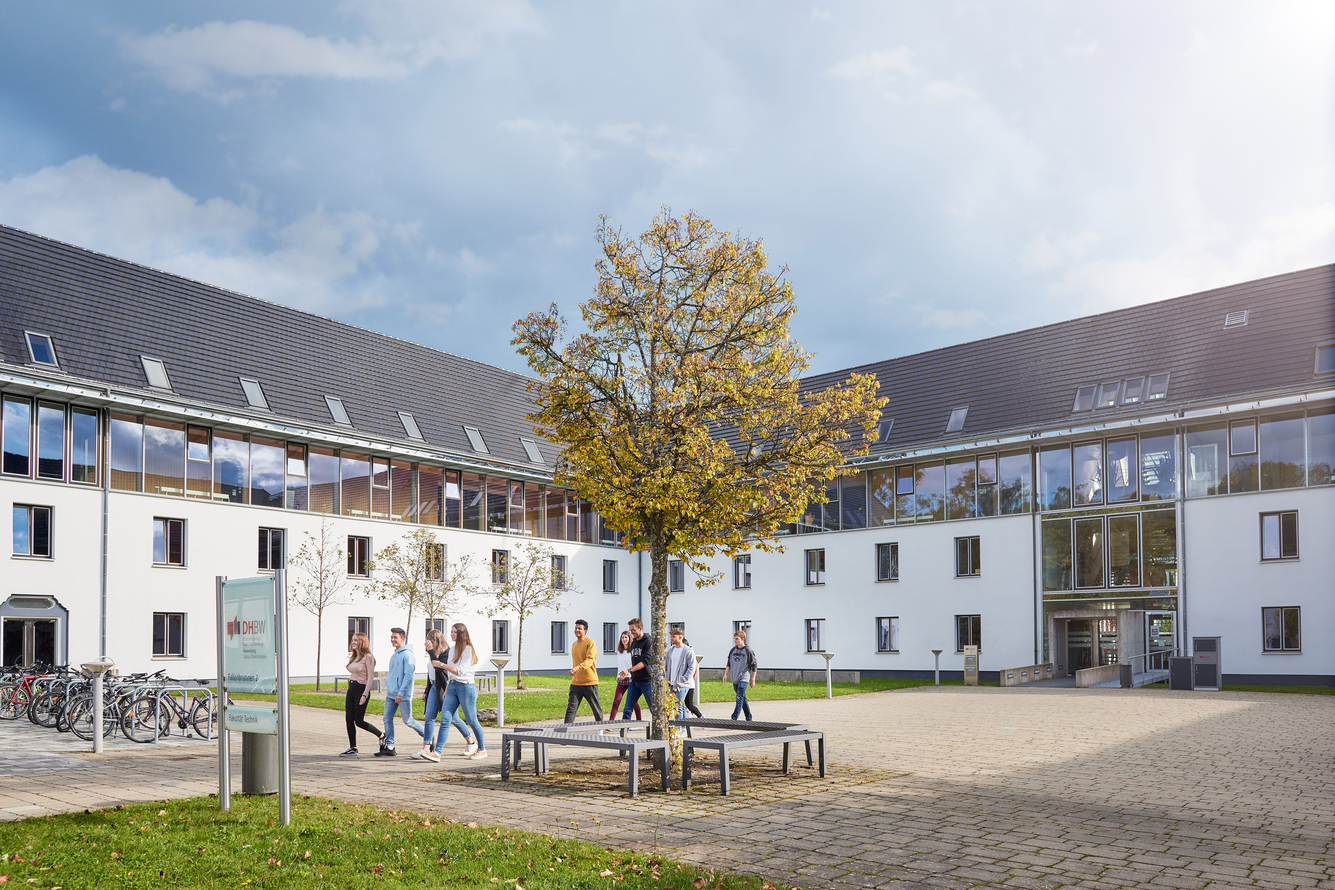
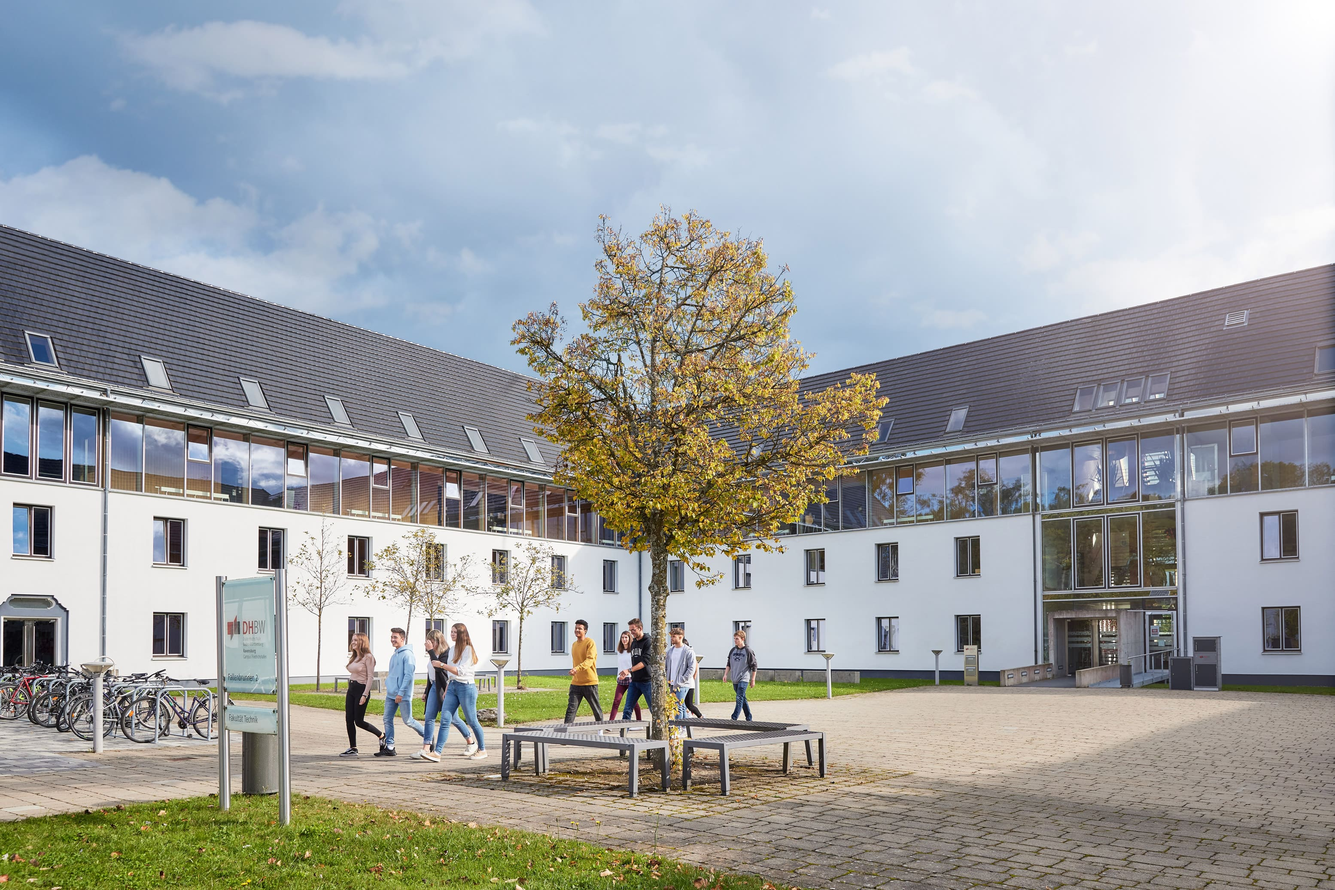
bilder komprimiert

diff --git a/public/index.html b/public/index.html
@@ -11,6 +11,7 @@
     <title>Homepage</title>
   </head>
   <body>
+    <!-- Navigationsbar -->
     <nav class="navbar">
       <div class="logo">
         <img src="pictures/logo_no_slogan.png" alt="" />
@@ -78,6 +79,90 @@
     <script src="js/swiper-bundle.min.js"></script>
     <script src="js/initswiper.js"></script>
     
+<!-- Versprechen-->
+    <div class="header-flex">
+      <h2 class="section-header">Why should you use our Website?</h2>
+      <h3 class="section-sub-header">We promise</h3>
+    </div>
+
+    <div class="flex-container-oben">
+      <div class="flex-item">
+        <div class="flex-content">
+          <img
+            loading="lazy"
+            src="pictures/productivity.jpg"
+            alt="productivity"
+            class="pictures"
+          />
+          <div class="flex-text">
+            <h4>Productivity:</h4>
+            <p>
+              Enhance your productivity with our intuitive task management
+              system. Stay organized, prioritize tasks, and achieve your goals
+              efficiently. Our platform provides features to streamline your
+              workflow, helping you tackle both personal and professional tasks
+              with ease.
+            </p>
+          </div>
+        </div>
+      </div>
+      <div class="flex-item">
+        <div class="flex-content">
+          <img
+            loading="lazy"
+            src="pictures/Integrateability.jpg"
+            alt="Integreatability"
+            class="pictures"
+          />
+          <div class="flex-text">
+            <h4>Integrability into Daily Life:</h4>
+            <p>
+              Seamlessly integrate our platform into your daily life. With a
+              user-friendly interface and mobile accessibility, you can manage
+              your tasks on the go. Whether you're at home, work, or on the
+              move, our platform adapts to your lifestyle, ensuring you stay on
+              top of your to-do list effortlessly.
+            </p>
+          </div>
+        </div>
+      </div>
+    </div>
+    <div class="flex-container-unten">
+      <div class="flex-item">
+        <div class="flex-content">
+          <img loading="lazy" src="pictures/family.jpg" alt="family" class="pictures" />
+          <div class="flex-text">
+            <h4>Collaborative Planning with Friends and Family:</h4>
+            <p>
+              Experience the power of collaborative planning by sharing your
+              to-do lists with friends and family. Coordinate events, manage
+              household chores, and plan activities together. Our platform
+              fosters teamwork, making it simple for everyone to contribute and
+              stay informed about shared responsibilities.
+            </p>
+          </div>
+        </div>
+      </div>
+      <div class="flex-item">
+        <div class="flex-content">
+          <img loading="lazy" src="pictures/easytouse.jpg" alt="easytouse" class="pictures" />
+          <div class="flex-text">
+            <h4>Easy to Use:</h4>
+            <p>
+              Simplicity is at the core of our platform. Enjoy a hassle-free
+              experience with an easy-to-use interface. Quickly create, edit,
+              and mark tasks as completed. Whether you're tech-savvy or new to
+              task management tools, our platform ensures a user-friendly
+              environment for all. Get started with ease and make task
+              management a breeze.
+            </p>
+          </div>
+        </div>
+      </div>
+    </div>
+
+
+    <!-- Textblock-->
     <div class="container">
       <div class="content">
         <h1>
@@ -172,93 +257,9 @@
         </p>
       </aside>
     </div>
-    <div class="image-container">
-      <img loading="lazy" src="pictures/Bild1.jpg" alt="Description of your image" />
-      <div class="text-overlay">
-        <h1>Easily organise your Work with our Solution To-Do List!</h1>
-      </div>
-    </div>
-    <div class="header-flex">
-      <h2 class="section-header">Why should you use our Website?</h2>
-      <h3 class="section-sub-header">We promise</h3>
-    </div>
-
-    <div class="flex-container-oben">
-      <div class="flex-item">
-        <div class="flex-content">
-          <img
-            loading="lazy"
-            src="pictures/productivity.jpg"
-            alt="productivity"
-            class="pictures"
-          />
-          <div class="flex-text">
-            <h4>Productivity:</h4>
-            <p>
-              Enhance your productivity with our intuitive task management
-              system. Stay organized, prioritize tasks, and achieve your goals
-              efficiently. Our platform provides features to streamline your
-              workflow, helping you tackle both personal and professional tasks
-              with ease.
-            </p>
-          </div>
-        </div>
-      </div>
-      <div class="flex-item">
-        <div class="flex-content">
-          <img
-            loading="lazy"
-            src="pictures/Integrateability.jpg"
-            alt="Integreatability"
-            class="pictures"
-          />
-          <div class="flex-text">
-            <h4>Integrability into Daily Life:</h4>
-            <p>
-              Seamlessly integrate our platform into your daily life. With a
-              user-friendly interface and mobile accessibility, you can manage
-              your tasks on the go. Whether you're at home, work, or on the
-              move, our platform adapts to your lifestyle, ensuring you stay on
-              top of your to-do list effortlessly.
-            </p>
-          </div>
-        </div>
-      </div>
-    </div>
-    <div class="flex-container-unten">
-      <div class="flex-item">
-        <div class="flex-content">
-          <img loading="lazy" src="pictures/family.jpg" alt="family" class="pictures" />
-          <div class="flex-text">
-            <h4>Collaborative Planning with Friends and Family:</h4>
-            <p>
-              Experience the power of collaborative planning by sharing your
-              to-do lists with friends and family. Coordinate events, manage
-              household chores, and plan activities together. Our platform
-              fosters teamwork, making it simple for everyone to contribute and
-              stay informed about shared responsibilities.
-            </p>
-          </div>
-        </div>
-      </div>
-      <div class="flex-item">
-        <div class="flex-content">
-          <img loading="lazy" src="pictures/easytouse.jpg" alt="easytouse" class="pictures" />
-          <div class="flex-text">
-            <h4>Easy to Use:</h4>
-            <p>
-              Simplicity is at the core of our platform. Enjoy a hassle-free
-              experience with an easy-to-use interface. Quickly create, edit,
-              and mark tasks as completed. Whether you're tech-savvy or new to
-              task management tools, our platform ensures a user-friendly
-              environment for all. Get started with ease and make task
-              management a breeze.
-            </p>
-          </div>
-        </div>
-      </div>
-    </div>
-
+    
+    
+    <!-- Karten mit Features-->
     <div class="card-list">
       <a class="card-item">
         <img loading="lazy" src="pictures/Bild2.jpg" alt="Card Image" />
@@ -291,12 +292,14 @@
         </p>
       </a>
     </div>
+    <!-- Bildblock mit Schriftzug-->
     <div class="image-container">
       <img loading="lazy" src="pictures/Bild8.jpg" alt="Description of your image" />
       <div class="text-overlay">
         <h1>Easily organise your Work with our Solution To-Do List!</h1>
       </div>
     </div>
+    <!-- Footer-->
     <footer>
       <div class="footer-row">
         <div class="footer-col">
